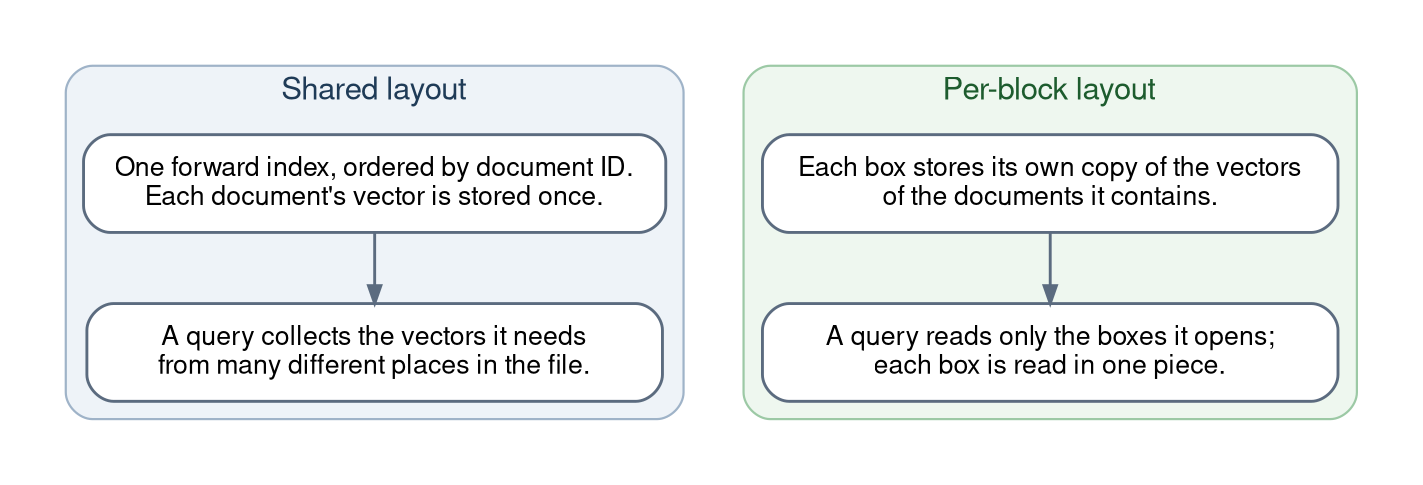
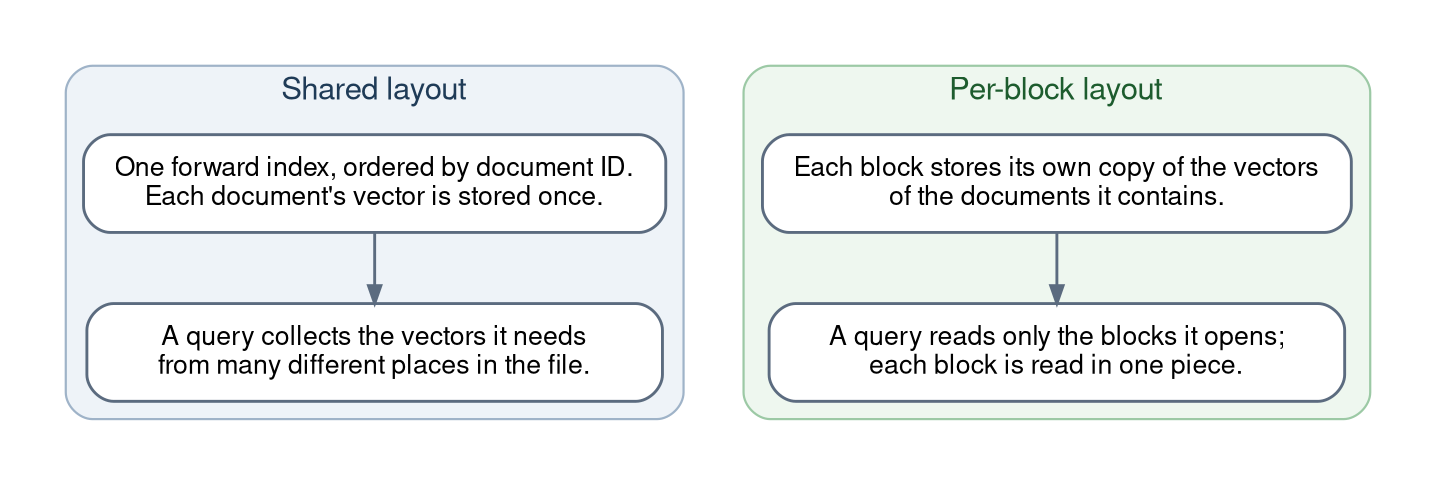
Address editor's comments

diff --git a/_posts/2026-10-19-less-heap-more-speed-neural-sparse-search-goes-native-in-opensearch-3-9.md b/_posts/2026-10-19-less-heap-more-speed-neural-sparse-search-goes-native-in-opensearch-3-9.md
@@ -12,46 +12,46 @@ categories:
 has_science_table: true
 meta_keywords: neural sparse search, sparse ANN, SEISMIC, native engine, approximate search, OpenSearch
 meta_description: The OpenSearch native engine runs approximate neural sparse search in C++ with its index off the JVM heap. We benchmark it on 138 million documents.
-excerpt: The OpenSearch native engine runs approximate neural sparse search in C++ and serves its index from the operating system's file cache instead of the JVM heap. On 138 million documents, it returned results about 6 to 32 times faster than the existing implementation at the same search quality.
+excerpt: The OpenSearch native engine runs approximate neural sparse search in C++ and serves its index from the operating system's file cache instead of the JVM heap. On 138 million documents, it returned results about 6 to 32 times faster than the default Lucene engine at the same search quality.
 ---
 
 Neural sparse search lets you search by meaning while keeping the speed and transparency of a keyword index. As your collection grows into the hundreds of millions of documents, though, the work behind each query grows with it, and so does the memory needed to serve it.
 
-In this blog post, we'll introduce the OpenSearch native engine for neural sparse search. It runs the same approximate search algorithm that OpenSearch already offers, but in C++, with its index served from the operating system's file cache instead of the JVM heap. We'll show you how to turn it on and share benchmark results on a 3-node cluster with 138 million documents. At the same search quality (recall, defined later in this post), the native engine answered queries about **6 to 32 times** faster than the existing implementation and kept its index off the JVM heap.
+In this blog post, we'll introduce the OpenSearch native engine for neural sparse search. It runs the same approximate search algorithm that OpenSearch already offers, but in C++, with its index served from the operating system's file cache instead of the JVM heap. We'll show you how to turn it on and share benchmark results on a 3-node cluster with 138 million documents. At the same search quality (recall, defined later in this post), the native engine answered queries about **6 to 32 times** faster than the default Lucene engine, which stores its index on the JVM heap.
 
 ## A quick refresher on approximate neural sparse search
 
 A neural sparse model represents each document as a short list of weighted terms, called a *sparse vector*. To answer a query, OpenSearch looks for documents whose weighted terms best match the query's. An exact search has to check every document that shares a term with the query, which becomes expensive at scale.
 
-OpenSearch 3.3 introduced an *approximate* search based on the [SEISMIC](https://dl.acm.org/doi/10.1145/3626772.3657769) algorithm. Think of a library where, for each term, the matching documents are grouped into boxes, and each box carries a short label describing its contents. At query time, OpenSearch reads the labels first, skips the boxes that are unlikely to contain a top result, and only opens the promising ones. To compute exact scores for the documents in the opened boxes, it reads their full vectors from a structure called the *forward index*.
+OpenSearch 3.3 introduced an *approximate* search based on the [SEISMIC](https://dl.acm.org/doi/10.1145/3626772.3657769) algorithm. Think of a library where, for each term, the matching documents are grouped into boxes, and each box carries a short label describing its contents. At query time, OpenSearch reads the labels first, skips the boxes that are unlikely to contain a top result, and only opens the promising ones. To compute exact scores for the documents in the opened boxes, it reads their full vectors from a structure called the *forward index*. In SEISMIC, these boxes are called *blocks*, and their labels are called *summaries*; the rest of this post uses those terms.
 
 Two query parameters control the trade-off between speed and quality:
 
 - `top_n`: how many of the query's highest-weighted terms to search with (for example, 3 to 7).
-- `heap_factor`: how readily boxes are skipped. Lower values skip more boxes and run faster; higher values open more boxes and find more of the true top results.
+- `heap_factor`: controls how many blocks OpenSearch scores. With the Lucene engine and the native shared layout, it is a multiplier on each block's summary score: OpenSearch skips a block when its summary score multiplied by `heap_factor` is lower than the score of the current *k*-th best result. With the native per-block layout, OpenSearch converts `heap_factor` into a fixed number of blocks to read (20 blocks at `heap_factor` 1.0, and one block more or fewer for each 0.01 change). In both cases, higher values give higher recall and lower values give lower latency.
 
 For a complete walkthrough of the algorithm, see the [SEISMIC announcement blog post](https://opensearch.org/blog/scaling-neural-sparse-search-to-billions-of-vectors-with-approximate-search/) and the [neural sparse ANN documentation](https://docs.opensearch.org/latest/vector-search/ai-search/neural-sparse-ann/).
 
 ## How the native engine keeps the index off the JVM heap
 
-In the existing implementation, the forward index is held in memory on the JVM heap. The JVM heap is a fixed amount of memory that you reserve for OpenSearch when you start a node, so at large scale you need to reserve a lot of it ahead of time.
+In the default Lucene engine, the forward index is held in memory on the JVM heap. The JVM heap is a fixed amount of memory that you reserve for OpenSearch when you start a node, so at large scale you need to reserve a lot of it ahead of time.
 
 The native engine stores the forward index in a file and reads it through the operating system's file cache (the *page cache*). The operating system uses whatever memory is free for that cache and can reclaim it when other processes need memory. The scoring itself runs in a C++ library that OpenSearch calls directly. The following diagram shows how a query flows through the native engine.
 
-![Diagram of the native engine. A neural_sparse query in the OpenSearch node is passed to the native C++ scorer for each shard. The scorer reads box labels, skips unpromising boxes, reads document vectors from the forward index file, which is cached in the operating system page cache outside the JVM heap, and returns its top results to be combined across shards.](/assets/media/blog-images/2026-10-19-less-heap-more-speed-neural-sparse-search-goes-native-in-opensearch-3-9/native-engine-architecture.png){:class="img-centered"}
+![Diagram of the native engine. A neural_sparse query in the OpenSearch node is passed to the native C++ scorer for each shard. The scorer reads block summaries, skips unpromising blocks, reads document vectors from the forward index file, which is cached in the operating system page cache outside the JVM heap, and returns its top results to be combined across shards.](/assets/media/blog-images/2026-10-19-less-heap-more-speed-neural-sparse-search-goes-native-in-opensearch-3-9/native-engine-architecture.png){:class="img-centered"}
 
-You query the native engine with the same `neural_sparse` query syntax as the existing implementation.
+You query the native engine with the same `neural_sparse` query syntax as the Lucene engine.
 
 ## Choosing between two forward index layouts
 
-The native engine can arrange the forward index in two ways, which you choose with the `forward_index` mapping parameter. Both layouts store the same compressed (8-bit) vectors; they differ only in where each document's vector is placed:
+The native engine can arrange the forward index in two ways, which you choose with the `forward_index` mapping parameter. Both layouts store the same 8-bit quantized vectors; they differ only in where each document's vector is placed:
 
-- **Shared layout** (`"forward_index": "shared"`, the default): each document's vector is stored once, in order of document ID. Of the two native layouts, this one uses less disk space and builds faster, so it's a good fit when the forward index fits in memory.
-- **Per-block layout** (`"forward_index": "per_block"`): each box keeps its own copy of the vectors of the documents it contains. The index takes more disk space, but a query only reads the few boxes it opens, and each box is read in one piece. This keeps the memory a query needs small, which makes this layout a good fit when the index is much larger than memory.
+- **Shared layout** (`"forward_index": "shared"`, the default): each document's vector is stored once, in order of document ID. This layout uses less than a third of the disk space of the per-block layout and builds faster. In our tests, it kept its latency when about a quarter of its shard size was available in memory.
+- **Per-block layout** (`"forward_index": "per_block"`): each block keeps its own copy of the vectors of the documents it contains, so a query reads only the few blocks it opens, each in one piece. In our tests, this layout had the lowest latency at every recall level we tested (about 1.6 times faster than the shared layout at a recall of 0.90 and 5.6 times faster at 0.96) and kept its latency with about 4% of its shard size in memory. In exchange, it needs about 3.4 times the disk space of the shared layout.
 
 The following diagram compares how a query reads vectors in each layout.
 
-![Diagram comparing the two layouts. In the shared layout, one forward index is ordered by document ID and each document's vector is stored once, so a query collects vectors from many places in the file. In the per-block layout, each box stores its own copy of the vectors of the documents it contains, so a query reads only the boxes it opens, each in one piece.](/assets/media/blog-images/2026-10-19-less-heap-more-speed-neural-sparse-search-goes-native-in-opensearch-3-9/forward-index-layouts.png){:class="img-centered"}
+![Diagram comparing the two layouts. In the shared layout, one forward index is ordered by document ID and each document's vector is stored once, so a query collects vectors from many places in the file. In the per-block layout, each block stores its own copy of the vectors of the documents it contains, so a query reads only the blocks it opens, each in one piece.](/assets/media/blog-images/2026-10-19-less-heap-more-speed-neural-sparse-search-goes-native-in-opensearch-3-9/forward-index-layouts.png){:class="img-centered"}
 
 ## Getting started with the native engine
 
@@ -92,7 +92,7 @@ PUT my-sparse-index
 }
 ```
 
-The `approximate_threshold` parameter sets how many documents a segment must contain before OpenSearch builds the approximate index for it; smaller segments are searched exactly. The other build parameters are optional; if you omit them, OpenSearch sets them based on the size of your data.
+The `approximate_threshold` parameter sets how many documents a segment must contain before OpenSearch builds the approximate index for it; smaller segments are searched exactly. The other build parameters are optional. If you omit `n_postings`, OpenSearch sets it to 0.05% of the number of documents in each segment (at least 160); `cluster_ratio` and `summary_prune_ratio` default to 0.1 and 0.4.
 
 Then search the index as usual. In `method_parameters`, `k` is the number of results to return, and `top_n` and `heap_factor` are the parameters described earlier:
 
@@ -111,9 +111,11 @@ GET my-sparse-index/_search
 }
 ```
 
+This example assumes that you have deployed a sparse encoding model and ingested documents with sparse embeddings. For setup steps, see [Neural sparse search](https://docs.opensearch.org/latest/vector-search/ai-search/neural-sparse-search/).
+
 ## Benchmarking the native engine on 138 million documents
 
-We compared three ways of running the same approximate search algorithm: the existing JVM implementation and the native engine with each of its two layouts.
+We compared three ways of running the same approximate search algorithm: the Lucene engine and the native engine with each of its two layouts.
 
 ### Test setup
 
@@ -123,7 +125,8 @@ We ran all tests on a 3-node cluster with the following configuration.
 |---|---|
 | Nodes | 3 × AWS `r7g.12xlarge` (48 vCPUs, 384 GiB memory, 2 TiB EBS gp3 storage each) |
 | Index | 3 primary shards and 0 replicas, so each node holds one shard of about 46 million documents |
-| Dataset | MS MARCO passage v2 (a public web passage collection) with neural sparse embeddings, 138,364,198 documents |
+| Dataset | MS MARCO passage v2 (a public web passage collection), 138,364,198 documents |
+| Encoding model | `opensearch-project/opensearch-neural-sparse-encoding-doc-v3-gte` |
 | Parameters | Default build parameters; `top_n` = 5; `heap_factor` adjusted to reach each target recall |
 
 We report two metrics:
@@ -135,20 +138,20 @@ We report two metrics:
 
 The following figure shows the trade-off between recall and latency for each implementation. Each point is one `heap_factor` setting, and lower is faster. The left panel shows a smaller, 8.8-million-document dataset (MS MARCO passage v1) for comparison.
 
-![Two line charts of recall@10 compared with median latency on a log scale for 8.8 million and 138 million documents. At both scales the native per-block layout has the lowest latency, followed by the native shared layout and then the JVM implementation.](/assets/media/blog-images/2026-10-19-less-heap-more-speed-neural-sparse-search-goes-native-in-opensearch-3-9/recall-latency-frontier.png){:class="img-centered"}
+![Two line charts of recall@10 compared with median latency on a log scale for 8.8 million and 138 million documents. At both scales the native per-block layout has the lowest latency, followed by the native shared layout and then the Lucene engine.](/assets/media/blog-images/2026-10-19-less-heap-more-speed-neural-sparse-search-goes-native-in-opensearch-3-9/recall-latency-frontier.png){:class="img-centered"}
 
 The following table compares the three implementations at two recall targets on 138 million documents.
 
 | Recall target | Implementation | Recall@10 | p50 latency (ms) | p99 latency (ms) | p50 speedup |
 |---|---|---|---|---|---|
-| About 0.90 | JVM (existing) | 0.902 | 4.90 | 20.26 | 1× |
+| About 0.90 | Lucene engine | 0.902 | 4.90 | 20.26 | 1× |
 | About 0.90 | Native, shared layout | 0.899 | 0.59 | 2.79 | 8.3× |
 | About 0.90 | Native, per-block layout | 0.903 | 0.38 | 1.32 | 12.8× |
-| About 0.96 | JVM (existing) | 0.959 | 28.17 | 73.23 | 1× |
+| About 0.96 | Lucene engine | 0.959 | 28.17 | 73.23 | 1× |
 | About 0.96 | Native, shared layout | 0.960 | 4.85 | 13.85 | 5.8× |
 | About 0.96 | Native, per-block layout | 0.957 | 0.87 | 2.41 | 32.4× |
 
-At both recall targets, the native engine responded faster with either layout, and the per-block layout responded fastest. In our tests, the gap grew with the dataset: on 8.8 million documents, the native engine was about 3 to 10 times faster than the JVM implementation; on 138 million documents, it was about **6 to 32 times** faster.
+At both recall targets, the native engine responded faster with either layout, and the per-block layout responded fastest. In our tests, the gap grew with the dataset: on 8.8 million documents, the native engine was about 3 to 10 times faster than the Lucene engine; on 138 million documents, it was about **6 to 32 times** faster.
 
 The per-block layout reached these latencies even though its index (760 GiB per shard) is about twice the size of each node's memory, so only part of the index was in memory at any time.
 
@@ -158,7 +161,7 @@ The following table shows how much JVM heap each implementation used to hold its
 
 | Implementation | Where the forward index lives | JVM heap used by the forward index |
 |---|---|---|
-| JVM (existing) | JVM heap | About 66 GiB per node |
+| Lucene engine | JVM heap | About 66 GiB per node |
 | Native, shared layout | Operating system page cache | Not on the heap |
 | Native, per-block layout | Operating system page cache | Not on the heap |
 
@@ -177,9 +180,9 @@ The following table shows the median latency of each native layout as the memory
 | 48 GiB | 0.62 ms | 0.42 ms |
 | 32 GiB | 98 ms | 0.42 ms |
 
-The shared layout kept the same latency down to 48 GiB, about 22% of its shard size. At 32 GiB, its median latency rose to 98 ms, so we recommend giving the shared layout at least about a quarter of its shard size in memory. At the same 32 GiB limit, about 4% of its shard size, the per-block layout kept nearly the same latency (0.42 ms). Because a per-block query reads only the few boxes it opens, in our tests this layout needed only a small fraction of its index size in memory at this recall level.
+The shared layout kept the same latency down to 48 GiB, about 22% of its shard size. At 32 GiB, its median latency rose to 98 ms, so we recommend giving the shared layout at least about a quarter of its shard size in memory. At the same 32 GiB limit, about 4% of its shard size, the per-block layout kept nearly the same latency (0.42 ms). Because a per-block query reads only the few blocks it opens, in our tests this layout needed only a small fraction of its index size in memory at this recall level.
 
-When the page cache is empty, for example after a machine restart, the first queries read their data from disk and take longer. Once that data is cached, queries run at the latencies shown here. To reduce the number of slow first queries, run a short set of warm-up queries before sending production traffic.
+When the page cache is empty, for example after a machine restart, the first queries read their data from disk and take longer. Once that data is cached, queries run at the latencies shown here. The native engine doesn't use the Warm Up API, which applies only to the Lucene engine. To reduce the number of slow first queries, send a set of representative queries before sending production traffic.
 
 ### Build time and disk usage
 
@@ -187,21 +190,21 @@ OpenSearch builds the approximate index when it merges segments. The following t
 
 | Implementation | Merge time |
 |---|---|
-| JVM (existing) | 9.5 hours |
-| Native, shared layout | 2.5 hours |
-| Native, per-block layout | 4.5 hours |
+| Lucene engine | 9 h 27 min |
+| Native, shared layout | 2 h 32 min |
+| Native, per-block layout | 4 h 28 min |
 
-In our runs, the native layouts built 2.1 to 3.7 times faster than the JVM implementation. On disk, the shared layout used 222 GiB per shard and the per-block layout used 760 GiB per shard. Because the per-block layout stores a copy of each vector in every box that contains it, it needs about 3.4 times the disk space of the shared layout, so plan your storage accordingly.
+In our runs, the native layouts built 2.1 to 3.7 times faster than the Lucene engine. On disk, the shared layout used 222 GiB per shard and the per-block layout used 760 GiB per shard. Because the per-block layout stores a copy of each vector in every block that contains it, it needs about 3.4 times the disk space of the shared layout, so plan your storage accordingly.
 
 ## Choosing a layout and tuning the native engine
 
-- **Choose the layout based on memory and disk.** If the forward index fits comfortably in memory, use the shared layout; it needs less disk space and builds faster than the per-block layout. If the index is much larger than memory, use the per-block layout (`"forward_index": "per_block"`), and provision about 3.4 times the disk space that the shared layout would need.
-- **Warm up after a restart.** Run a short set of warm-up queries before sending production traffic so that fewer of the first requests read from disk.
+- **Choose the layout based on latency, memory, and disk.** Use the shared layout when disk space and build time matter most and you can give each node memory equal to at least about a quarter of its shard size. Use the per-block layout (`"forward_index": "per_block"`) when you want the lowest latency or when memory is much smaller than the index, and provision about 3.4 times the disk space that the shared layout would need.
+- **Warm up after a restart.** Send a set of representative queries before sending production traffic so that fewer of the first requests read from disk. The Warm Up API doesn't apply to the native engine.
 - **Start with the default build parameters.** All results in this post use them.
 - **Tune recall with `heap_factor`.** Increase `heap_factor` for higher recall and decrease it for lower latency. Keep `top_n` small, for example 3 to 7.
 
 ## Next steps
 
-To try the native engine, enable it on a test cluster and create an index with `"engine": "native"`, as shown in [Getting started with the native engine](#getting-started-with-the-native-engine). For parameter details, see the [neural sparse ANN documentation](https://docs.opensearch.org/latest/vector-search/ai-search/neural-sparse-ann/).
+To try the native engine, enable it on a test cluster and create an index with `"engine": "native"`, as shown in [Getting started with the native engine](#getting-started-with-the-native-engine). The `method` object can't be changed after the field is created, so to move an existing index to the native engine, create a new index with `"engine": "native"` and reindex your data. For parameter details, see the [neural sparse ANN documentation](https://docs.opensearch.org/latest/vector-search/ai-search/neural-sparse-ann/).
 
 We'd like to hear how the native engine performs on your workloads. Share your results and questions on the [OpenSearch forum](https://forum.opensearch.org/), and if you'd like to contribute, visit the [neural-search](https://github.com/opensearch-project/neural-search) and [neural-sparse-cpp](https://github.com/opensearch-project/neural-sparse-cpp) repositories.
